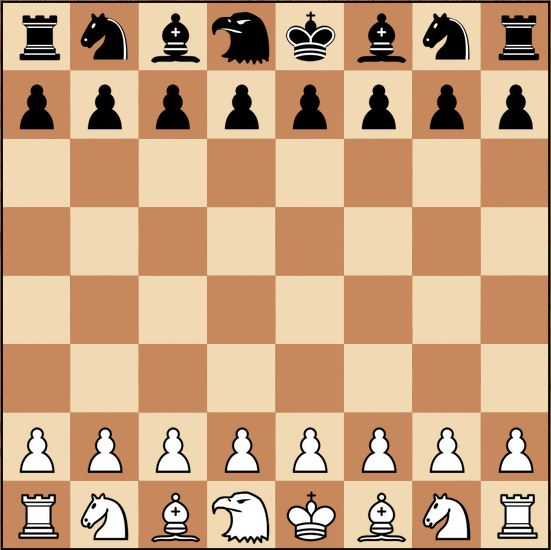
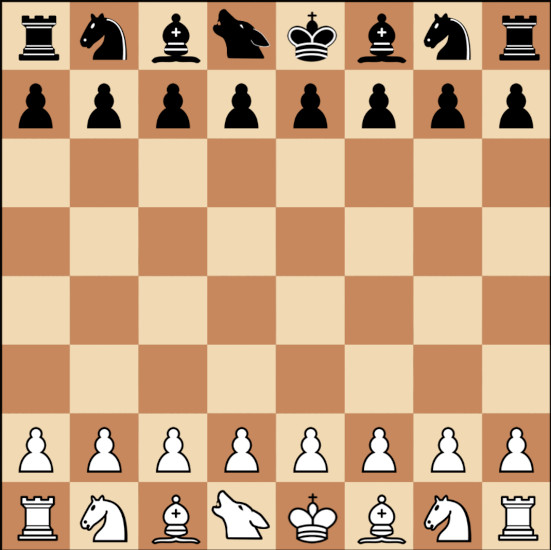
replace eagle by wolf in werewold rules

diff --git a/src/games/chessbase/res/rules/werewolf/werewolf-rules.html b/src/games/chessbase/res/rules/werewolf/werewolf-rules.html
@@ -44,7 +44,7 @@ It can jump to the 2nd square in any direction even if the 1st square is occupie
 If it makes such a jump over an enemy piece,
 the latter can be optionally removed from the board,
 possibly in addition to what was captured on the destination square.
-		<p style='text-align:center'><img style="max-width:100%;" src="{GAME}/res/rules/fairy/eagle.png"/></p>
+		<p style='text-align:center'><img style="max-width:100%;" src="{GAME}/res/rules/fairy/wolf.png"/></p>
 </p>
 
 <h2>Inital setup</h2>
